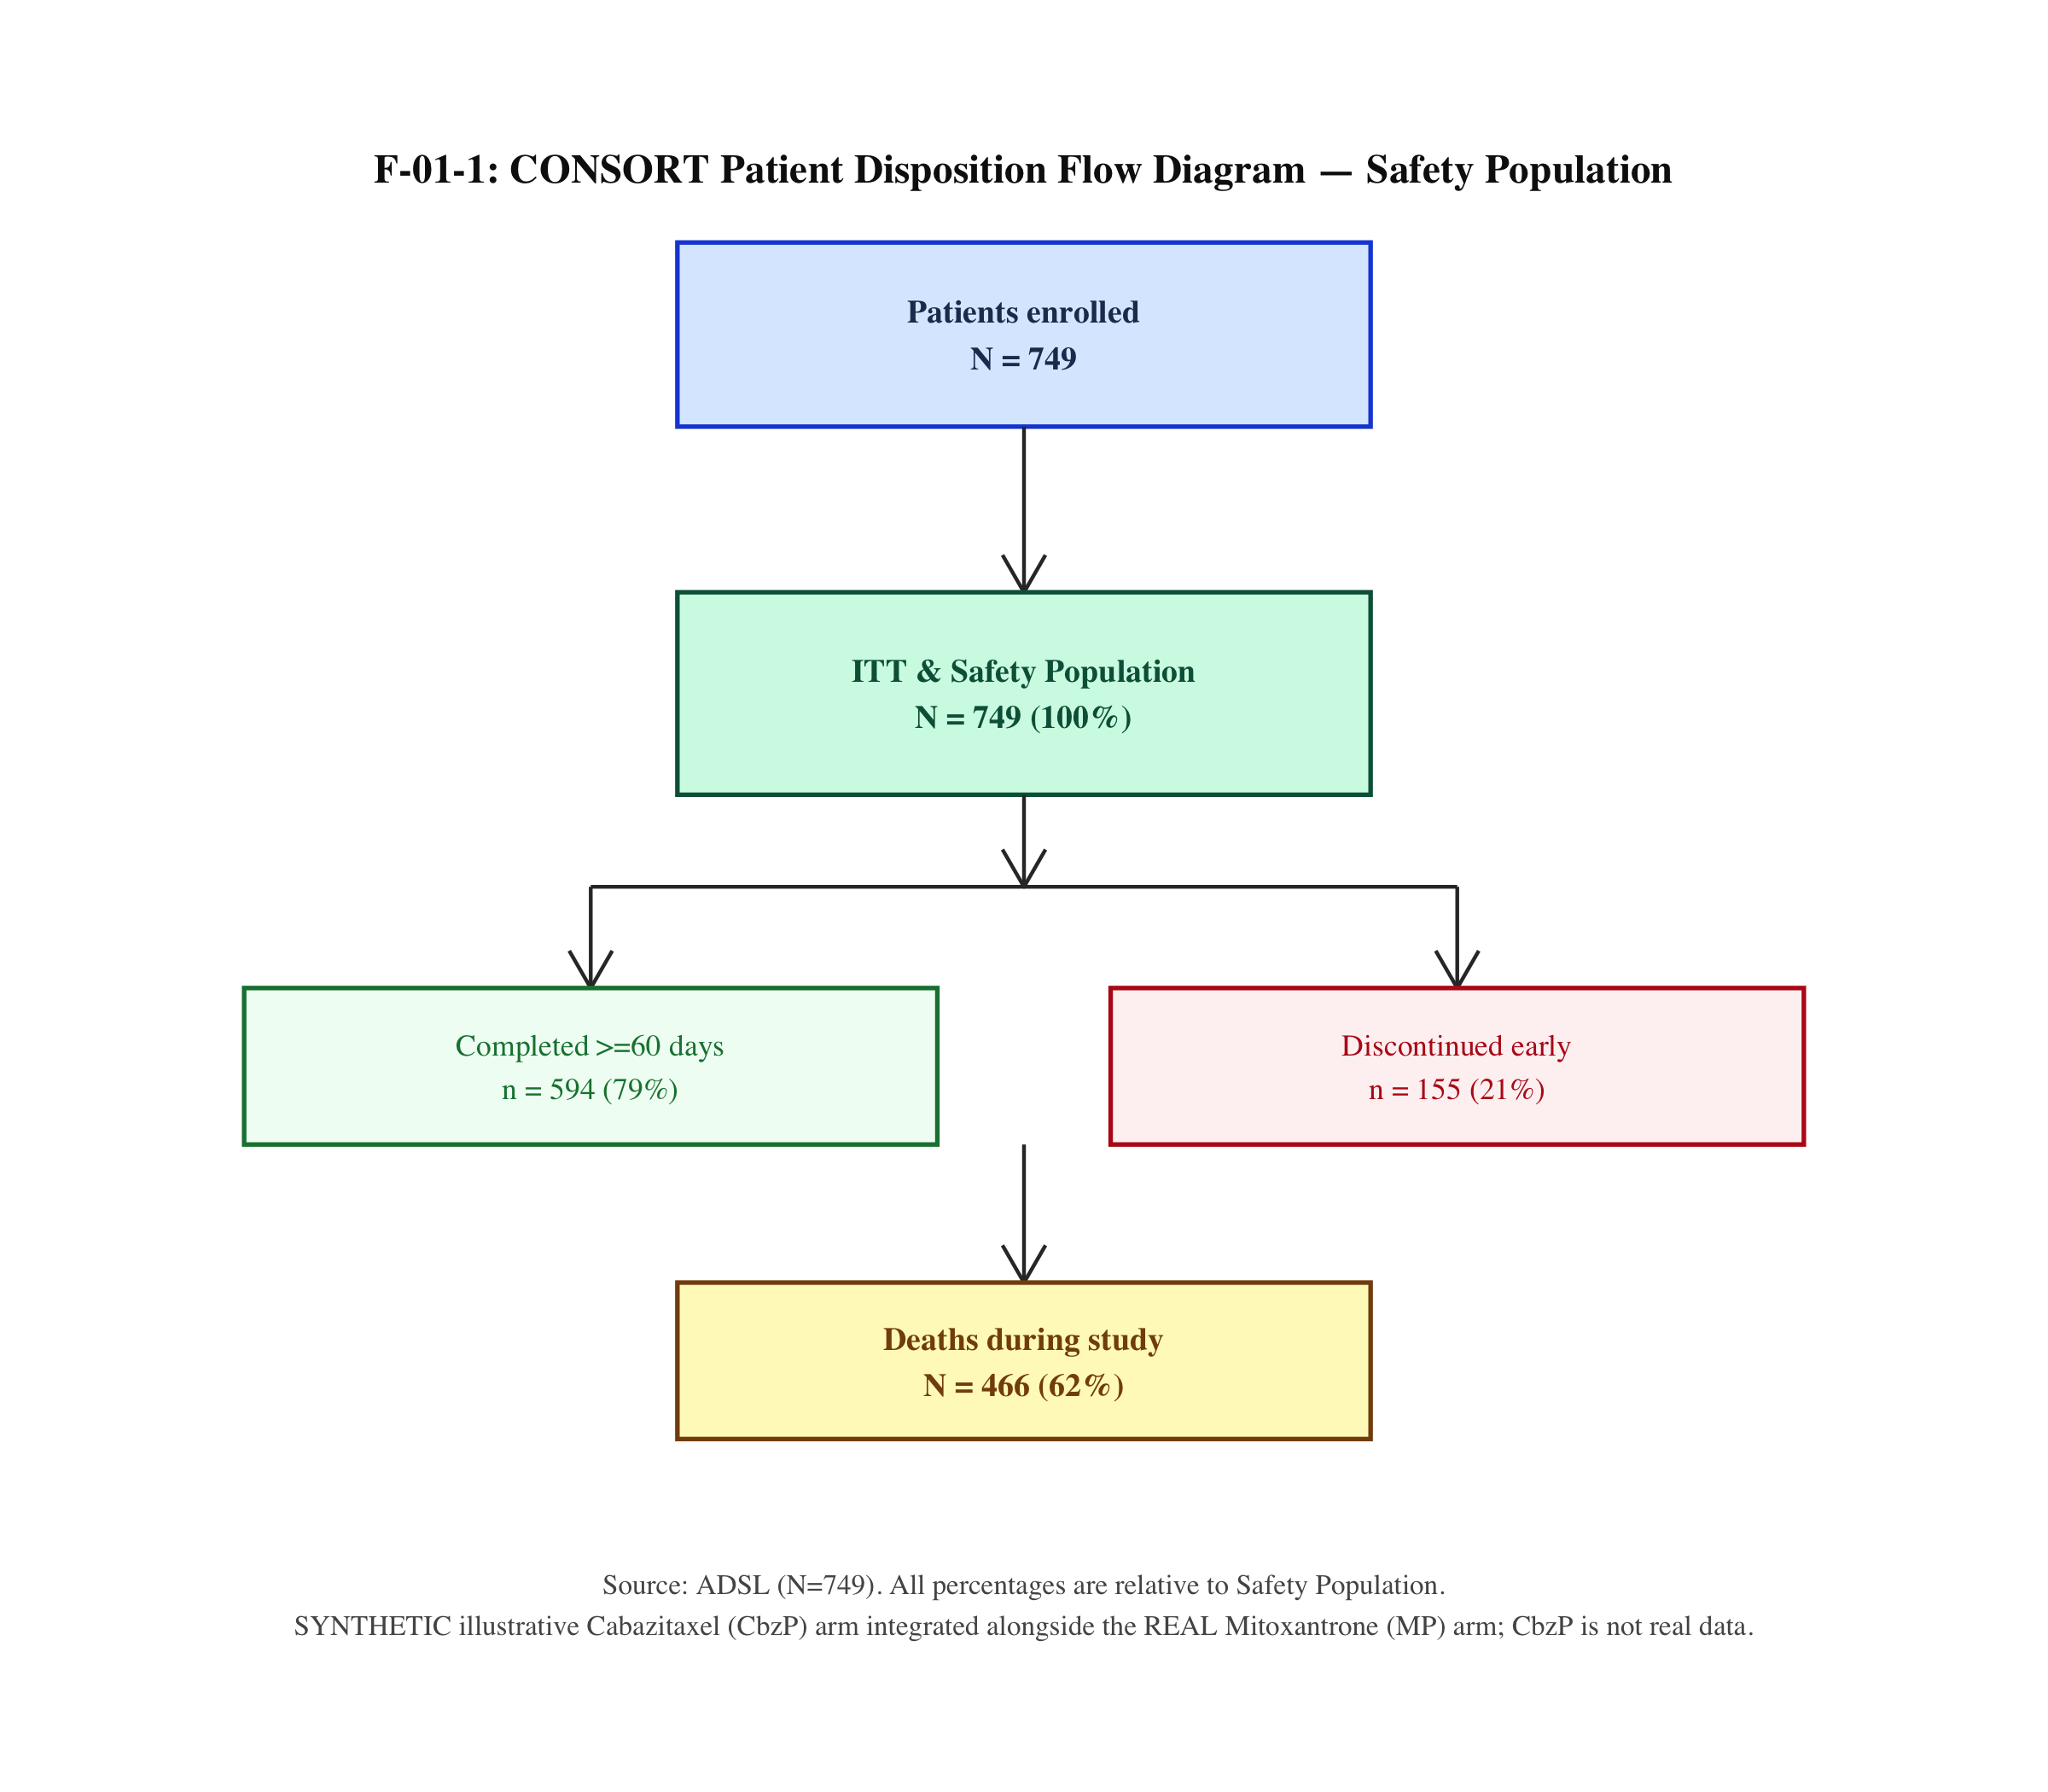
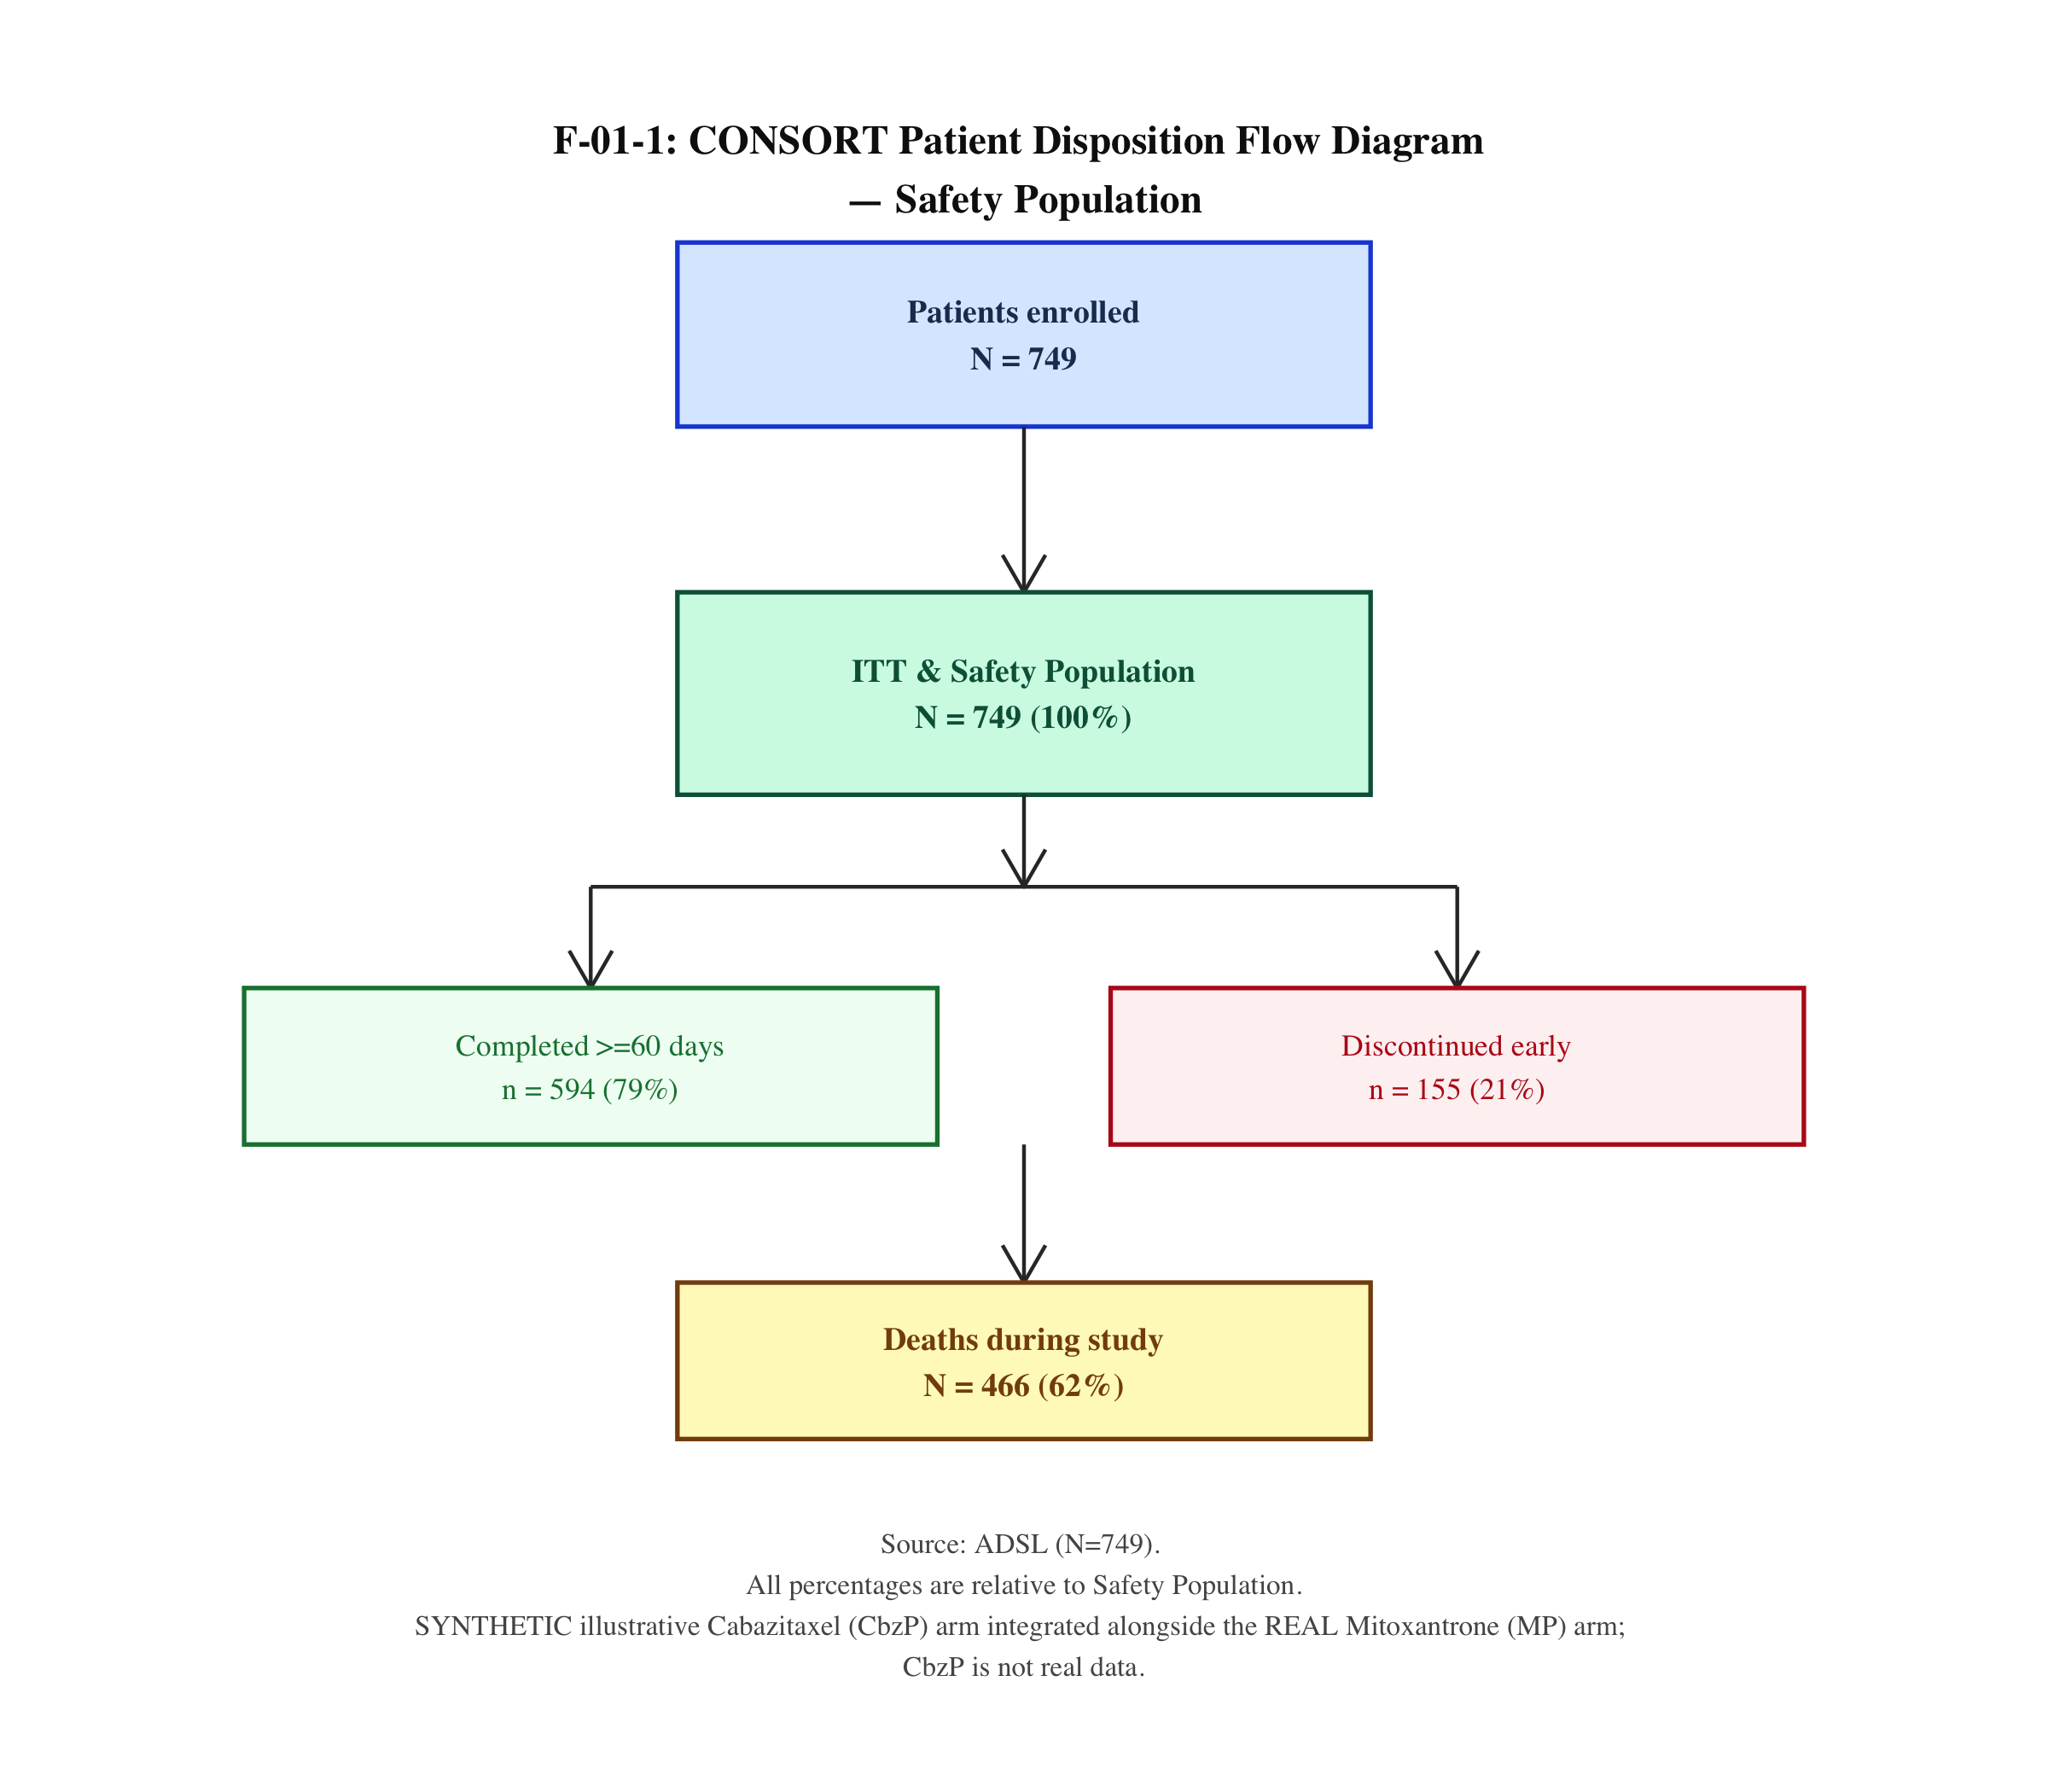
docs: align guides/README/CHANGELOG to confirmed ORR + results reconciliation; commit GREEN ODA evidence
ADRG: new Results-Level Reconciliation section (Stage 13, M-1), TTE analysis
conventions (4.1: +1-day duration, per-parameter origin, surfaced anomalies),
confirmed-ORR derivation + publication reconciliation (7.9%/4.6% vs 4.4%).
README/ANALYSIS_REPORT/TRACEABILITY/CHANGELOG updated (13 stages; dataset- and
results-level reconciliation; OCCDS v1.0).

Evidence: committed real-ODA GREEN run - pipeline_health.json (13/13 PASS,
sas_execution_mode=oda, reconciliation + results_reconciliation PASS),
results_reconciliation_status.json (6/6 parameters), and the regenerated
confirmed-ORR T-11 table + figures.

Changed region(s): [[0.1562, 0.8357, 0.8438, 0.9286], [0.25, 0.0619, 0.8125, 0.1238], [0.1875, 0.0929, 0.2188, 0.1238]]

diff --git a/CHANGELOG.md b/CHANGELOG.md
@@ -4,6 +4,44 @@ All notable changes to the **TROPIC (Study EFC6193 / XRP6258)** pipeline will be
 
 The format is based on [Keep a Changelog](https://keepachangelog.com/en/1.0.0/), and this project adheres to Semantic Versioning.
 
+## [3.7.0] - 2026-06-16 — Results-level double-programming, confirmed ORR, output gate
+
+> **Context.** Post-audit hardening. Double-programming now extends from the ADaM dataset
+> layer to the analysis-results layer; the response derivation is corrected to the published
+> confirmed rate; and a deliverable sanity gate prevents code artifacts reaching a table.
+> Verified on a real ODA run: all **13** stages GREEN, dataset reconciliation PASS (7/7
+> domains), results reconciliation PASS (6/6 parameters).
+
+### Added
+- **Numerical results reconciliation (Stage 13, `05_reconciliation/results_reconcile.R`).** SAS
+  computes MP-arm survival statistics independently with `PROC LIFETEST` (KM median / events / N),
+  exported to `tte_stats_prod.csv`; R recomputes with `survival::survfit` and the two are diffed
+  numerically (median tol 1 day; events/N exact). Verdict in `results_reconciliation_status.json`
+  gates the build; degrades to `not_available` in sim mode. Two-arm HR (synthetic CbzP) stays
+  R-only by construction and is labelled as such.
+- **Deliverable sanity gate (Stage 12, `cibuild.py::output_sanity_check`).** Fails the build if a
+  published table/listing contains lint pragmas, unrendered `sprintf` specs, or `<NA>`/`NaN`/`Inf`.
+- **Committed `.lintr`** pinning the R style standard (line length 120; CDISC-uppercase, dplyr-NSE,
+  mixed-pipe and explicit-return exemptions justified inline) + a **CI lint gate** in `ci.yml`. Lint
+  is now reproducibly **0** across production/validation/reporting R.
+
+### Changed / Fixed
+- **ORR now requires RECIST v1.0 confirmation (M-2)** in `A_adrs_generation.sas` + `v_adrs_validation.R`
+  (a CR/PR confirmed by a later CR/PR ≥ `RECIST_CONFIRM_DAYS` = 28 d). Real-MP ORR drops from the
+  unconfirmed **18.2%** to **7.9%** (measurable) / **4.6%** (response-evaluable) — close to the
+  published 4.4%. define.xml `OBJRESP` decode updated to match.
+- **ADTTE negative-time anomalies surfaced (MO-4):** event/censor dates preceding the time origin are
+  still floored to 1 day but now emit an explicit per-subject warning in both tracks (SAS `putlog`,
+  R `warning()`) instead of being silently masked.
+- **`define.xml` `AsOfDateTime` is hash-gated (Mi-02):** restamped only when metadata content actually
+  changes, not on every run (removes misleading provenance churn). Repo git identity configured.
+- **CDISC accuracy:** "OCCDS v1.1" corrected to **OCCDS v1.0 + custom episode-merging extension**
+  throughout (no CDISC OCCDS v1.1 standard exists); the merging rule is labelled a TROPIC convention.
+- **TFL deliverable fix:** removed leaked `# nolint` pragmas from `T-11-Efficacy_Tables.txt` (root
+  cause in the `efficacy_tables` `sprintf` string; now wrapped in a scoped `# nolint` block).
+- **Docs aligned** (ADRG/SDRG/README/ANALYSIS_REPORT/TRACEABILITY) to the above, incl. TTE analysis
+  conventions (+1-day duration, per-parameter time origin) documented in ADRG §4.1.
+
 ## [3.6.2] - 2026-06-14 — ADaM conformance remediation (129 findings → 0)
 
 > **Context.** With CORE shipping no ADaM rules and Pinnacle 21 Community 4.1.0 engine-expired under

diff --git a/08_reviewers_guides/ADRG.md b/08_reviewers_guides/ADRG.md
@@ -2,7 +2,7 @@
 
 **Study Name:** TROPIC Re-Analysis  
 **Compound:** Cabazitaxel (CbzP) vs. Mitoxantrone (MP)  
-**Standard:** CDISC ADaMIG v1.3 / OCCDS v1.1  
+**Standard:** CDISC ADaMIG v1.3 / OCCDS v1.0 (+ custom episode-merging extension)  
 **Created:** 2026-05-23  
 
 ---
@@ -18,7 +18,7 @@ This **demonstration** rebuilds a synthetic comparator to retrospectively exerci
 
 ## 2. Key Derivations & Episode Merging
 ### Myeloid/Neutropenic Episode Merging (ADAE)
-Under standard OCCDS v1.0, separate adverse event records (e.g. repeated reports of neutropenia) artificially inflate the event count denominator. Under OCCDS v1.1, we apply a **3-day continuous episode window**:
+Under the published CDISC OCCDS v1.0 structure, separate adverse event records (e.g. repeated reports of neutropenia) artificially inflate the event count denominator. We therefore apply a **pre-specified custom 3-day continuous episode-merging extension** (this merging rule is a TROPIC analysis convention — it is *not* part of the published OCCDS v1.0; no CDISC "OCCDS v1.1" standard exists):
 1. Within a patient and Customized Query 02 (`CQ02NAM = 'HEMATOLOGIC irAE'`), neutropenic events with a start date within 3 days of the previous event's end date are merged.
 2. The continuous start (`CIAESDT`), end (`CIAEEDT`), and duration (`CIAEDUR`) are calculated across the merged sequence.
 3. The occurrence flag `AEOCCFL` is set to `'Y'` only for the first record in the merged sequence, establishing an accurate, non-inflated safety denominator.
@@ -45,14 +45,19 @@ For Progression-Free Survival (PFS), progression is defined as radiological prog
   * **Time to PSA Progression (TTPSA) (PARAMCD: TTPSA):** Start date is `TRTSDT`. Event is PSA progression (`PARAMCD = 'PSPROG' & AVAL = 1.0`). Censored at last PSA assessment date or last known alive date.
   * **Time to Tumor Progression (TTUMOR) (PARAMCD: TTUMOR):** Start date is `TRTSDT`. Event is RECIST v1.0 overall response of `'PD'`. Censored at last tumor assessment date (`last_tumor_dt`) or last known alive date. **Note: Restrictive analysis population is the measurable disease subpopulation (MEASDISF = 'Y'); SAP v3.0 §3.4 cites 204 MP / 201 CbzP measurable at baseline. The real MP arm yields N=203 here; the synthetic CbzP arm carries N=179 by reconstruction.**
 
+### 4.1 Time-to-Event Analysis Conventions (audit MO-4 / MO-5)
+* **Duration convention.** `AVAL = (event/censor date − time origin) + 1` day, so an event on the origin date contributes 1 day (not 0); applied uniformly across all parameters.
+* **Time origin per parameter is explicit and deliberate.** OS and PFS are anchored at randomization (`RANDDT`, ITT); TTSAE, TTPSA and TTUMOR are anchored at first dose (`TRTSDT`, safety). Efficacy ITT endpoints run from randomization, safety/treatment endpoints from exposure; the origin is recorded on every record via `STARTDT`.
+* **Negative durations are surfaced, not silently masked (audit MO-4).** A small number of source records carry an event/censor date marginally before the time origin — an artefact of the week-precision source dates (±3.5 days; SDRG §2). They are floored to 1 day so the record stays in the risk set, **and** both tracks emit an explicit warning (SAS `putlog`, R `warning()`) identifying the subject so the anomaly is investigable rather than hidden.
+
 ---
 
 ## 4A. Response Endpoint Derivations (ADRS) — Traceability (audit F-8)
 
 To pre-empt reviewer challenge on the response rates, the exact derivation of the two response endpoints (as implemented in the SAS/R ADRS track and consumed by `tfl_generation.R`) is:
 
-* **Objective Response Rate (ORR, `PARAMCD = OBJRESP`):** Responder = best overall response of CR or PR per RECIST v1.0 (`AVALC = 'Y'`). **Denominator = ITT population restricted to patients with measurable disease at baseline** (`MEASDISF == 'Y'`), per SAP v3.0 §3.4 / §5.3 and the publication (de Bono 2010). The SAP cites 204 measurable MP subjects; the real MP arm yields **N = 203** here, giving **37/203 = 18.2%**.
-  * **Reconciliation to the publication:** The published MP ORR was **4.4%**. The remaining difference (18.2% vs 4.4%) is due to the lack of response confirmation requirements in the simplified pipeline derivations (which evaluates the best of any post-baseline assessments without requiring a consecutive confirmed scan at least 4 weeks later). This is a confirmation-rule difference, not a calculation error.
+* **Objective Response Rate (ORR, `PARAMCD = OBJRESP`):** Responder = a **confirmed** CR or PR per RECIST v1.0 (`AVALC = 'Y'`). Confirmation (audit M-2) requires a subsequent CR/PR at least `RECIST_CONFIRM_DAYS` (28) days after the first (CR confirmed by CR; PR confirmed by CR or PR), evaluated on the lesion-derived RECIST timepoints that both the SAS and R tracks compute identically. **Denominator = ITT population restricted to patients with measurable disease at baseline** (`MEASDISF == 'Y'`), per SAP v3.0 §3.4 / §5.3 and the publication (de Bono 2010). The real MP arm yields **16/203 = 7.9%** on the measurable subpopulation.
+  * **Reconciliation to the publication:** The published MP ORR was **4.4%**. With confirmation enforced, the pipeline now yields **7.9%** on the measurable-disease denominator and **4.6%** (16/351) on the response-evaluable denominator (T-11-8b) — both close to the published rate. The prior best-of-any-assessment logic, with no confirmation, overstated this roughly four-fold (18.2%); enforcing the RECIST confirmation rule removed that overstatement. The small residual reflects lesion-sum-derived RECIST vs investigator adjudication and the ±3.5-day source date precision, not a calculation error.
 * **PSA Response (`PARAMCD = PSARESP`):** Responder = ≥50% confirmed decline in PSA from baseline (PCWG3) (`AVALC = 'Y'`); denominator = subjects with a baseline and ≥1 post-baseline PSA. MP arm: **69/371 = 18.6%**.
 
 All response counts/percentages are emitted by `09_tfl/tfl_generation.R` to `09_tfl/output/tables/T-11-Efficacy_Tables.txt` (single source of truth).
@@ -107,6 +112,12 @@ The execution sequence (in `oda` mode) is split into two jobs through a resilien
 
 The cross-language reconciliation audit (Stage 11, `cross_lang_audit.R`) then performs a `diffdf` comparison between the independently SAS-generated `*_prod.xpt` and the R-generated `*_v.xpt` datasets.
 
+### Results-Level Reconciliation (audit M-1, Stage 13)
+Double-programming extends beyond the ADaM **dataset** layer to the **analysis results**. During the ODA run the SAS engine independently computes the MP-arm survival statistics with `PROC LIFETEST` (Kaplan–Meier median, event count, and N per time-to-event parameter), exported to `04_adam/tte_stats_prod.csv`. Stage 13 (`05_reconciliation/results_reconcile.R`) recomputes the identical statistics in R with `survival::survfit` and diffs them **numerically** (KM-median tolerance 1 day; event count and N exact). The verdict is written to `06_telemetry/results_reconciliation_status.json` and **gates the build**. The latest run reconciles all six parameters (OS, PFS, TTPAIN, TTPSA, TTSAE, TTUMOR) PASS.
+
+> [!NOTE]
+> **Scope of the results reconciliation.** This is the **real MP arm only** — the cohort both engines derive independently. The two-arm hazard ratios and log-rank p-values shown in the TFLs are computed on MP + the **synthetic** CbzP comparator; because a single engine (R) holds the synthetic arm, those two-arm statistics are single-programmed **by construction** and are not part of the numerical SAS↔R reconciliation. In `sim` mode (no SAS engine) Stage 13 records `not_available` rather than a tautological pass.
+
 > [!IMPORTANT]
 > **Validation independence (audit F-1) and reconciliation scope (audit F-6).** The R validation track derives every ADaM domain **solely from source SDTM staging and its own logic; it does not read any `*_prod.xpt` file.** (A prior version of the ADAE QC script read `adae_prod.xpt` to recover SAS's row order for tie-breaking; that coupling has been removed and replaced with a unique `AESEQ`-based key: both tracks retain `AESEQ` in the final ADaM dataset to compare on `USUBJID` + `AESEQ` directly.) Because the reconciled OCCDS/BDS datasets do not all carry a unique record identifier (e.g. ADCM, ADLB, ADRS), the audit for those domains is a **keyed record-content (multiset) comparison**: records are aligned by business keys and, within tie groups, by full record content, then compared cell-by-cell. A PASS therefore certifies that **both engines independently produced identical record content** — it does not assert reproduction of an independent unique-key row index. This is a sound dual-programming check for keyless analysis datasets; it is described precisely here rather than overstated as positional row parity.
 
@@ -145,7 +156,7 @@ All 5 primary and secondary time-to-event efficacy parameters were reconstructed
 > - **Time to Serious AE (TTSAE):** Derived dynamically from the first Serious AE occurrence date in ADAE, or censored at `LSTALVDT` if no SAE occurred.
 
 ### 7.5 Adverse Events (ADAE) & Exposure (ADEX)
-* **Adverse Events**: Simulated based on published Table 2 rates, including 82% neutropenia, 8% febrile neutropenia, 31% anemia, and 47% diarrhea. CTCAE toxicity grades and OCCDS v1.1 variables (including continuous episode merging fields `CIAESDT`, `CIAEEDT`, `CIAEDUR`, and occurrence flag `AEOCCFL`) were applied. The Serious AE (SAE) rate is calibrated to match the EPAR safety profile of exactly 39.2% (145/371 safety-evaluable subjects).
+* **Adverse Events**: Simulated based on published Table 2 rates, including 82% neutropenia, 8% febrile neutropenia, 31% anemia, and 47% diarrhea. CTCAE toxicity grades and OCCDS v1.0 occurrence variables (including the custom continuous episode-merging fields `CIAESDT`, `CIAEEDT`, `CIAEDUR`, and occurrence flag `AEOCCFL`) were applied. The Serious AE (SAE) rate is calibrated to match the EPAR safety profile of exactly 39.2% (145/371 safety-evaluable subjects).
 * **Exposure**: Simulated up to 10 cycles with standard Jevtana dosing (25 mg/m² q3w) and cycle-level relative dose intensity (RDI) around a median of 92%, incorporating dose reductions and delays matching the publication safety profile.
 
 ### 7.6 Laboratory (ADLB) & Concomitant Medications (ADCM)

diff --git a/README.md b/README.md
@@ -17,7 +17,7 @@
 
 ## Overview
 
-This repository is a clinical analysis pipeline for the TROPIC Phase III trial, organised to mirror an eCTD Module 5 layout. It implements dual-language double programming (SAS and R), CDISC-aligned ADaM datasets, cross-language reconciliation, and TFL generation.
+This repository is a clinical analysis pipeline for the TROPIC Phase III trial, organised to mirror an eCTD Module 5 layout. It implements dual-language double programming (SAS and R), CDISC-aligned ADaM datasets, cross-language reconciliation at both the **dataset** level (cell-by-cell `diffdf`) and the **analysis-results** level (SAS `PROC LIFETEST` vs R `survfit`), and TFL generation.
 
 > **Scope & reproducibility (read first):** This is a portfolio/demonstration project. The real MP-arm SDTM source and ODA credentials are **not** committed (patient-data protection + secrets hygiene), so a bare clone cannot re-run the *real* pipeline — see **[REPRODUCIBILITY.md](REPRODUCIBILITY.md)** for the data-access path, the pinned environment, and a **self-contained `--demo` smoke test** that runs on a clean clone with no real data, no SAS, and no credentials. The comparator (Cabazitaxel) arm is **synthetic and illustrative** (see *Data provenance*); only the real Mitoxantrone arm is reconciled SAS↔R. A genuine SAS↔R reconciliation requires a run executed against a **real** SAS engine (`--real-sas`, recorded `sas_execution_mode` = `oda`/`local`); the **default** no-engine invocation runs in **`sim`** mode, where a zero-difference reconciliation is tautological. Always check `sas_execution_mode` in `06_telemetry/pipeline_health.json` before reading any reconciliation result as double-programming evidence.
 
@@ -141,7 +141,7 @@ TROPIC/
 │   └── cross_lang_audit.R          # diffdf cell-by-cell reconciliation engine
 │
 ├── 06_telemetry/                   # Pipeline Orchestration & Telemetry
-│   ├── cibuild.py                  # Python execution driver (12 stages; Job B reconcile)
+│   ├── cibuild.py                  # Python execution driver (13 stages; Job B reconcile)
 │   ├── oda_broker.py               # Resilient ODA connection broker (probe-earned 'oda' mode)
 │   ├── seed_sdtm.py                # Job A: idempotent, manifest-checked SDTM seeding
 │   ├── test_oda_broker.py          # Unit tests for the broker + seed (no Java/network)
@@ -193,7 +193,7 @@ TROPIC/
 # Clone and enter
 git clone <repo-url> && cd TROPIC
 
-# Run all 12 stages
+# Run all 13 stages
 python3 06_telemetry/cibuild.py
 ```
 

diff --git a/08_reviewers_guides/TRACEABILITY_MATRIX.md b/08_reviewers_guides/TRACEABILITY_MATRIX.md
@@ -1,7 +1,7 @@
 # Analysis Traceability Matrix
 
 **Study:** TROPIC (EFC6193 / XRP6258) · NCT00417079
-**Standards:** SDTMIG v3.1.1 (source) · ADaMIG v1.3 / OCCDS v1.1 (analysis)
+**Standards:** SDTMIG v3.1.1 (source) · ADaMIG v1.3 / OCCDS v1.0 + custom episode-merging (analysis)
 **Purpose:** End-to-end traceability from source SDTM → ADaM (dual-programmed) → Define-XML
 metadata → TFL output, plus the reconciliation evidence for each analysis dataset. This is
 the single index a reviewer uses to walk any number on a table back to the code and the
@@ -35,7 +35,7 @@ OS / PFS / TTSAE / TTPSA / TTUMOR inherit this limitation (SDRG §2).
 | **ADSL** | `A_adsl_generation.sas` | `v_adsl_validation.R` | `IG.ADSL` | Populations ITTFL/SAFFL/PPROTFL; TRTSDT/TRTEDT (EX); DTHDT/LSTALVDT (DS, week-offset); ECOGBL (VS); MEASDISF/VISCFL (LS); PAINBL (PN, §6.x); baseline labs + **imputation flags `*IF`** (§6.3) | `USUBJID` (unique) | `reconciliation_status.json` |
 | **ADEX** | `A_adex_generation.sas` | `v_adex_validation.R` | `IG.ADEX` | Cycle dose, CUMDOSE, NCYCLE, **RDI** (Project Optimus E-R proxy, §5.5) | `USUBJID,PARAMCD,AVISIT` (multiset) | ″ |
 | **ADCM** | `A_adcm_generation.sas` | `v_adcm_validation.R` | `IG.ADCM` | Prior/concomitant meds; NACTDT (new anti-cancer therapy); docetaxel history | `USUBJID,CMSTDT,CMDECOD` (multiset) | ″ |
-| **ADAE** | `A_adae_io_respec.sas` | `v_adae_io_validation.R` | `IG.ADAE` | TRTEMFL; OCCDS v1.1 **continuous-episode merging** (CQ02 hematologic irAE, ≤3-day gap, §5.2); AEOCCFL denominator flag; ATOXGR | `USUBJID,AESEQ` (unique) | ″ |
+| **ADAE** | `A_adae_io_respec.sas` | `v_adae_io_validation.R` | `IG.ADAE` | TRTEMFL; **custom continuous-episode merging** (OCCDS v1.0 base; CQ02 hematologic irAE, ≤3-day gap, §5.2); AEOCCFL denominator flag; ATOXGR | `USUBJID,AESEQ` (unique) | ″ |
 | **ADLB** | `A_adlb_generation.sas` | `v_adlb_validation.R` | `IG.ADLB` | Analysis windows (§5.6); ATOXGR baseline→worst shift; ANL01FL; ANCNADIR / ANCRECDY (§5.5) | `USUBJID,PARAMCD,AVISITN,LBDY` (multiset) | ″ |
 | **ADRS** | `A_adrs_generation.sas` | `v_adrs_validation.R` | `IG.ADRS` | OVRLRESP (RECIST v1.0, §5.3); PSPROG (PCWG3, §5.4); OBJRESP / PSARESP | `USUBJID,PARAMCD,AVISIT` (multiset) | ″ |
 | **ADTTE** | `A_adtte_generation.sas` | `v_adtte_validation.R` | `IG.ADTTE` | OS; PFS (NACT censoring hierarchy); **TTSAE** (was `TTOS`); TTPAIN; TTPSA; TTUMOR (measurable-disease subpop) | `USUBJID,PARAMCD` (multiset) | ″ |
@@ -80,6 +80,7 @@ SAS↔R-reconciled ADaM — not the rendered pixels.
 | 10 (SAS production) | `cibuild.py` Stage 10 (`local`/`oda`/`cached`/`sim`/`error`) | `pipeline_health.json` `sas_execution_mode` |
 | 11 (reconciliation) | `cross_lang_audit.R` | `reconciliation_status.json`, `reconciliation_report.html` |
 | 12 (TFL) | `tfl_generation.R` | `09_tfl/output/tables/*`, `09_tfl/output/figures/*` |
+| 13 (numerical results reconciliation) | `results_reconcile.R` — SAS `PROC LIFETEST` vs R `survfit` (MP-arm KM medians / events / N) | `results_reconciliation_status.json` |
 
 Run reproducibility: R toolchain pinned by `renv.lock`; self-contained demo
 (`python3 06_telemetry/cibuild.py --demo`) runs `tests/smoke_test.R` with no real data,

diff --git a/06_telemetry/adam_conformance_report.md b/06_telemetry/adam_conformance_report.md
@@ -1,6 +1,6 @@
 # ADaM Conformance Report (focused, CDISC ADaMIG v1.3-aligned)
 
-*Generated:* `2026-06-15 10:07:06`  
+*Generated:* `2026-06-16 14:18:03`  
 *Engine:* in-repo `adam_conf_check.R` — interim gate (NOT the full FDA Validator pack; see `p21_adam_runrecord.md`).  
 *Inputs:* 7 ADaM `*_prod.xpt` + `07_define_xml/define.xml`.  
 *Result:* **PASS (0 errors at this check level)** — 0 findings (Error **0**, Warning **0**).

diff --git a/ANALYSIS_REPORT.md b/ANALYSIS_REPORT.md
@@ -53,7 +53,7 @@ The gatekeeping logic is exercised on these endpoints; the CbzP column is **synt
 | Time to PSA Progression | 2.8 mo (synthetic) | 2.2 mo (real, 95% CI 1.7–3.3) | 0.84 (0.71–0.99) | 0.0362 | median 6.4 mo, HR 0.75 |
 | Time to Tumour Progression | 3.8 mo (synthetic)§ | 2.3 mo (real)§ | 0.67 (0.54–0.83) | 0.0003 | median 8.8 mo, HR 0.61 |
 | PSA Response (≥50% decrease) | 39.2% (148/378, synthetic) | 18.6% (69/371, real) | Fisher's exact | <0.0001 | 39% vs 24% (p = 0.0002) |
-| Overall Response Rate (ORR) | 12.8% (23/179, synthetic)§ | 18.2% (37/203, real)§ | Fisher's exact | 0.1594 | 14.4% vs 4.4% (p = 0.005) |
+| Overall Response Rate (ORR, confirmed) | 12.8% (23/179, synthetic)§ | 7.9% (16/203, real)§ | Fisher's exact | 0.1296 | 14.4% vs 4.4% (p = 0.005) |
 
 †Synthetic, illustrative — not real patient data. ‡Circular by construction; descriptive of synthetic data only, not a treatment-effect estimate. §Restricted to Measurable Disease Subpopulation (N=179 synthetic CbzP, N=203 real MP). The synthetic CbzP medians **do not match** the published cabazitaxel medians (the reconstruction overshoots; see §8).
 